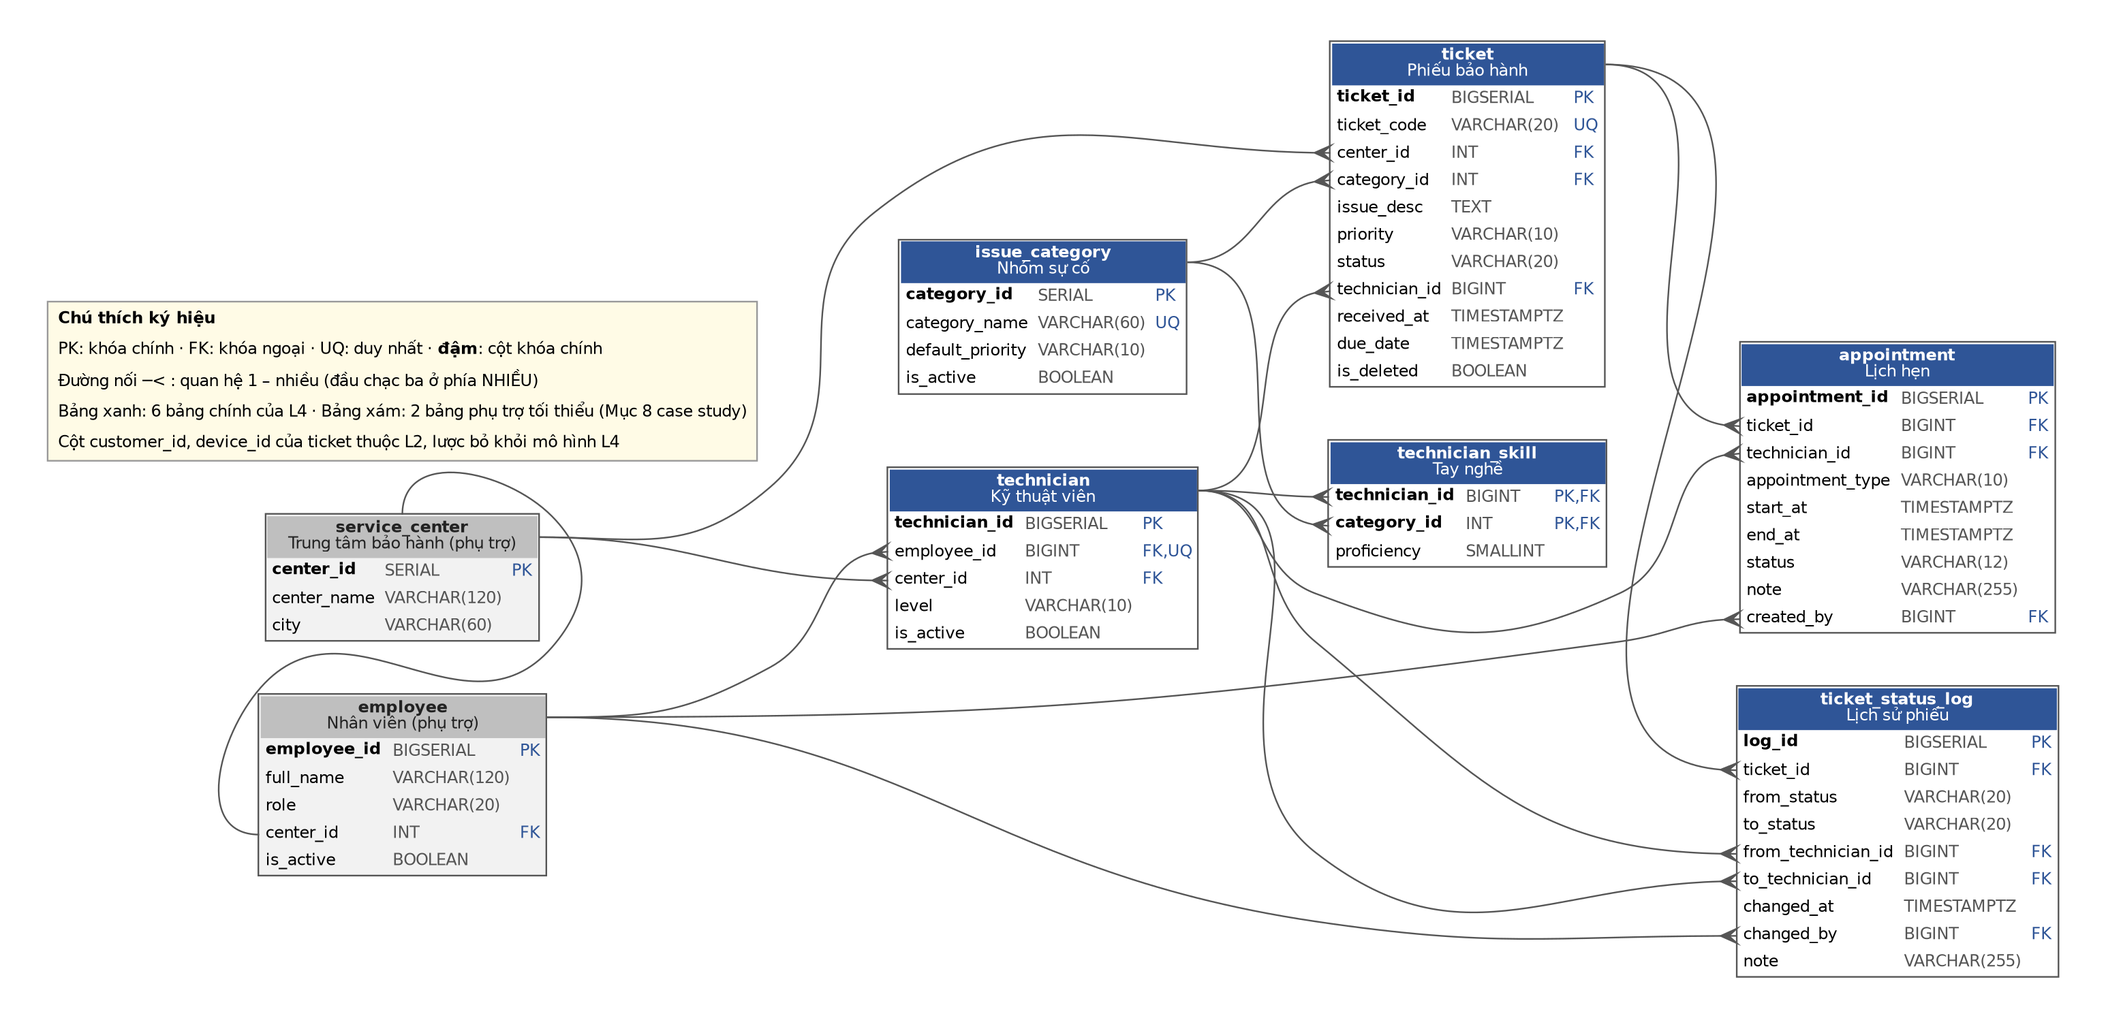
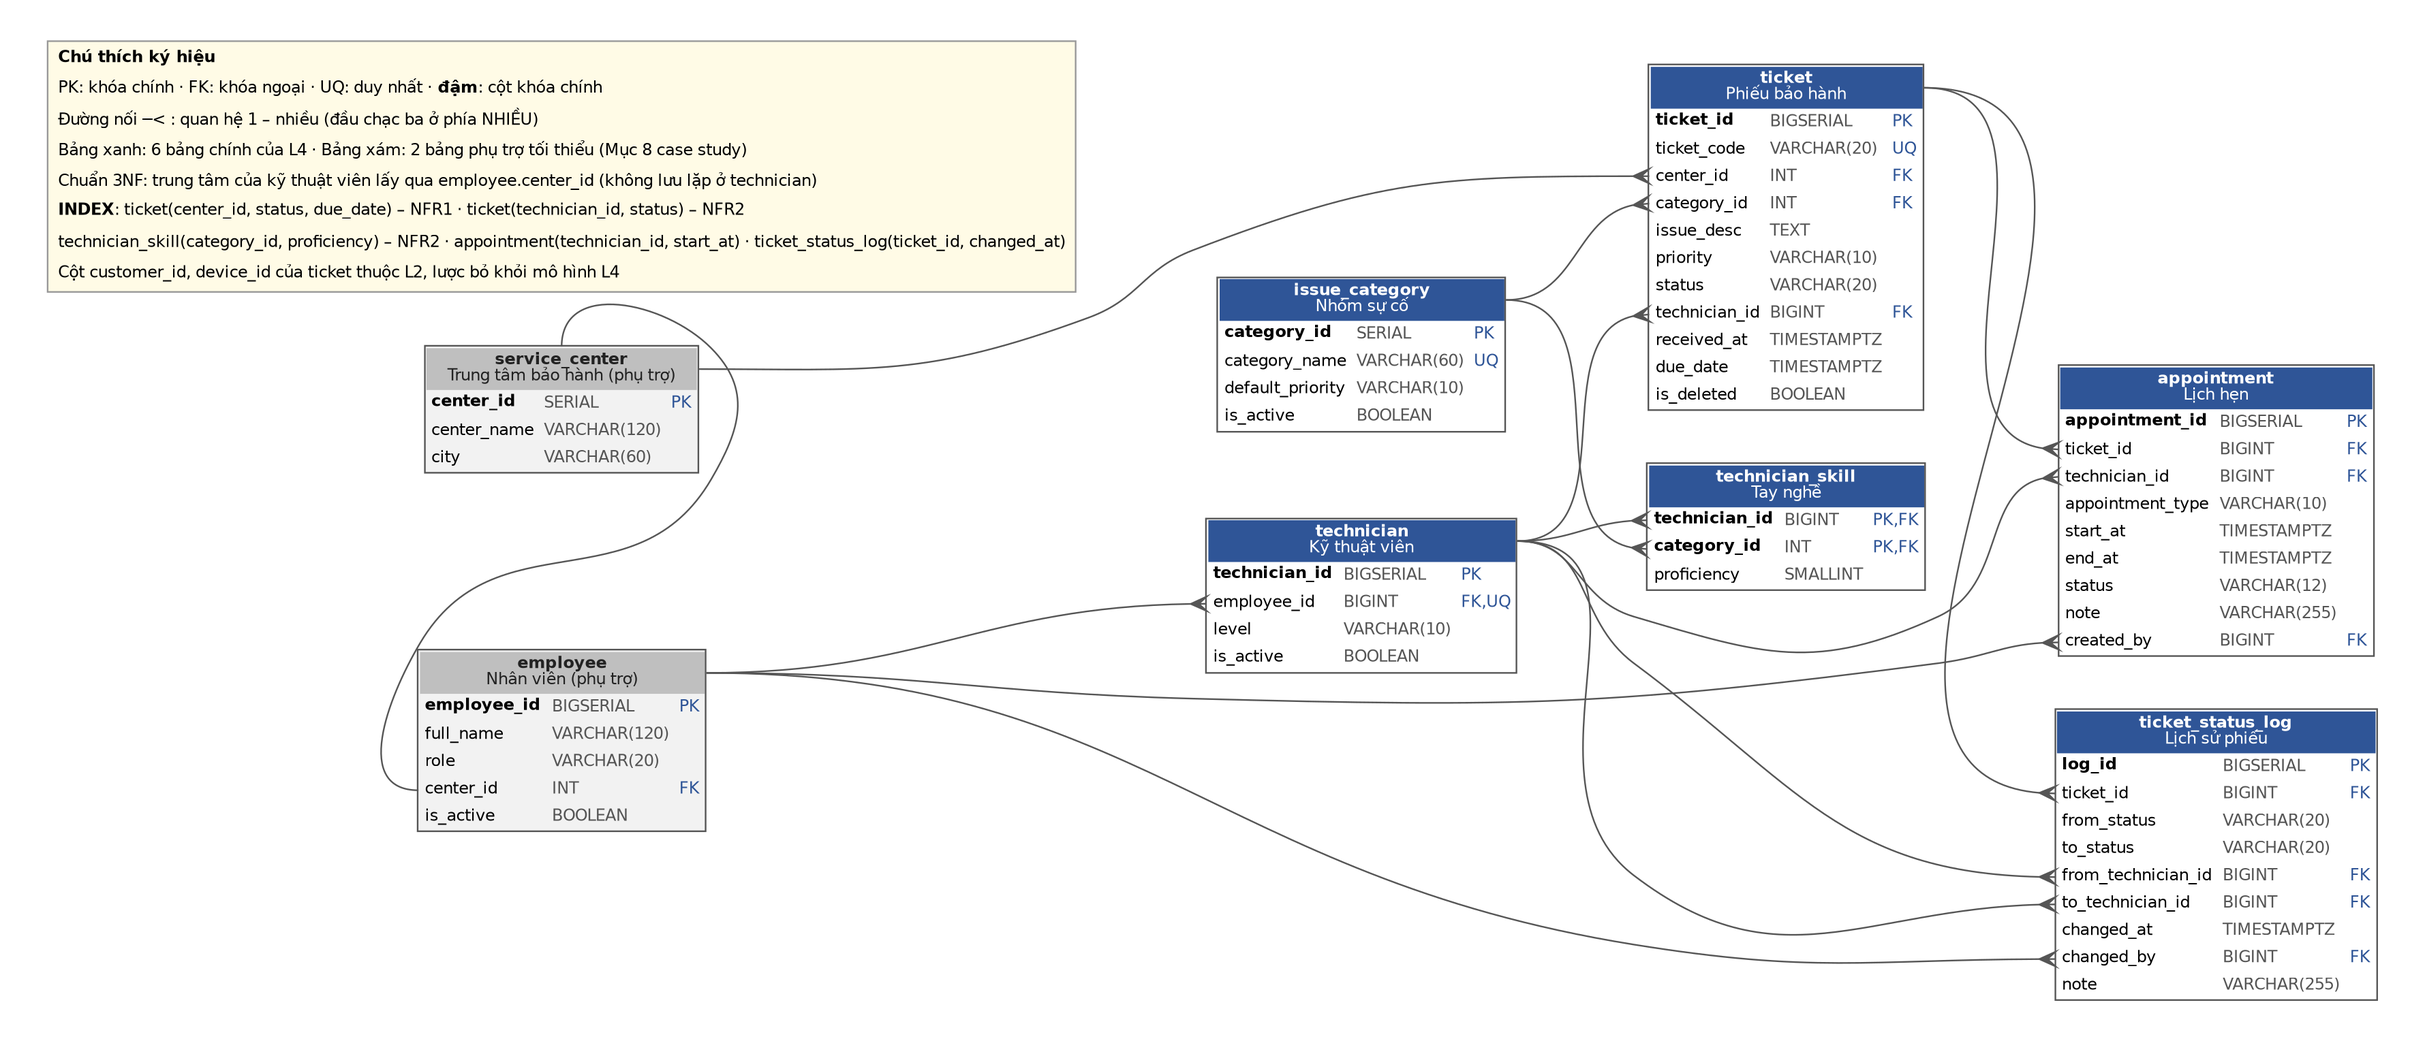
docs: refine 4-layer architecture, 3NF ERD and consistency check

diff --git a/docs/thiet-ke.md b/docs/thiet-ke.md
@@ -2,46 +2,87 @@
 
 ![Sơ đồ kiến trúc phân lớp](diagrams/architecture.png)
 
-File gốc: [`architecture.drawio`](architecture.drawio). Kiến trúc chọn: **monolith phân lớp** (một ứng dụng, năm lớp), chạy một tiến trình trên máy cá nhân.
+File gốc: [`architecture.drawio`](architecture.drawio). Kiến trúc chọn: **kiến trúc phân lớp (Layered) 4 lớp** làm khung tổng thể, **MVC** bên trong lớp trình bày (giao diện web là View, FastAPI routers là Controller), **Repository** cho lớp truy cập dữ liệu. Ứng dụng chạy một tiến trình trên máy cá nhân.
 
-| Lớp | Trách nhiệm | Trao đổi với lớp khác |
-|---|---|---|
-| ① Giao diện | Hiển thị 3 màn hình (xem wireframe), kiểm tra nhập liệu cơ bản; không chứa quy tắc nghiệp vụ | Gửi HTTP/JSON tới lớp API, kèm header `X-Employee-Id` |
-| ② API | Nhận request theo API contract (E1–E10), kiểm tra kiểu dữ liệu, kiểm tra quyền dùng chung (vai trò + trung tâm), trả mã HTTP thống nhất | Gọi hàm Python của lớp Nghiệp vụ; không truy cập CSDL trực tiếp |
-| ③ Nghiệp vụ | Áp dụng quy tắc: gợi ý và phân công (QT-06, QT-07, QT-08, QT-L4-01), lịch hẹn (QT-L4-02…05), truy vấn danh sách, khối lượng công việc và lịch sử phiếu | Gọi hàm Python của lớp Truy cập dữ liệu; không biết gì về HTTP |
-| ④ Truy cập dữ liệu | Câu SQL tham số hóa, mở/đóng giao dịch, UPDATE có điều kiện | Gửi SQL tới PostgreSQL qua TCP cổng 5432 |
-| ⑤ Cơ sở dữ liệu | Lưu 6 bảng chính; ràng buộc khóa, CHECK, EXCLUDE; index | Chỉ nhận kết nối từ lớp ④ |
+| Lớp | Thành phần | Trách nhiệm | KHÔNG được làm | Trao đổi |
+|---|---|---|---|---|
+| ① Trình bày | Giao diện web (View) · FastAPI routers (Controller) | Hiển thị 3 màn hình; nhận request theo API contract E1–E10; kiểm tra kiểu dữ liệu; kiểm tra quyền dùng chung (vai trò + trung tâm); đổi lỗi nghiệp vụ thành mã HTTP | Chứa quy tắc nghiệp vụ; truy vấn CSDL trực tiếp | Giao diện → API: HTTP + JSON (REST). API → Service: gọi hàm Python |
+| ② Nghiệp vụ | AssignmentService · AppointmentService · TicketQueryService | Chứa **toàn bộ** quy tắc: QT-06, QT-07, QT-08, QT-L4-01 … QT-L4-06 | Biết dữ liệu lưu bằng công nghệ gì; biết về HTTP | Gọi qua giao diện Repository |
+| ③ Truy cập dữ liệu | TicketRepository · TechnicianRepository · AppointmentRepository · StatusLogRepository | Câu SQL tham số hóa; mở/đóng giao dịch; UPDATE có điều kiện | Chứa quy tắc nghiệp vụ; gọi ngược lên Service | SQL qua TCP cổng 5432 |
+| ④ Lưu trữ | PostgreSQL 16 | Lưu 6 bảng; bảo đảm toàn vẹn bằng khóa ngoại, NOT NULL, CHECK, EXCLUDE; index | — | Chỉ nhận kết nối từ lớp ③ |
 
-**Quy tắc phụ thuộc:** lớp trên chỉ gọi lớp ngay dưới, không gọi tắt. **Ngoài phạm vi** (khối xám trong sơ đồ): L2 tiếp nhận, L5 kho linh kiện, L8 khảo sát, đăng nhập, SMS/Zalo, cập nhật tiến độ sửa chữa. Dữ liệu các phần này lấy từ bộ dữ liệu mẫu của case study, nạp một lần.
+**Phụ thuộc một chiều:** lớp trên chỉ gọi lớp ngay dưới, lớp dưới không bao giờ gọi lớp trên, không nhảy cóc. **Ngoài phạm vi** (khối xám): L2 tiếp nhận, L5 kho linh kiện, L8 khảo sát, đăng nhập, SMS/Zalo, cập nhật tiến độ sửa chữa – nối với mục WON'T của SRS.
 
-**Lập luận lựa chọn kiến trúc**
+**Ví dụ một yêu cầu đi qua bốn lớp – "Phân công kỹ thuật viên" (UC2):** màn hình gửi `POST /api/tickets/88231/assignment {technician_id: 12}` → Controller kiểm tra kiểu và quyền → `AssignmentService.assign()` kiểm tra phiếu còn MOI và kỹ thuật viên thỏa QT-08 → `TicketRepository` chạy `UPDATE ticket ... WHERE status = 'MOI'` và `StatusLogRepository` ghi lịch sử trong cùng giao dịch → PostgreSQL. Thành công: trả 201 lên màn hình. Ngoại lệ 5a (phiếu đã được phân công): UPDATE không đổi dòng nào → Service ném lỗi → Controller trả 409 → màn hình hiện thông báo đã vẽ trên wireframe.
+
+**Lập luận lựa chọn kiến trúc** (khuôn: *Vì NFR… yêu cầu…, tôi chọn…, đánh đổi là…*)
 
 1. Vì **NFR3** yêu cầu phân công và ghi lịch sử phiếu cùng thành công hoặc cùng không xảy ra, và khi có 2 yêu cầu đồng thời thì **đúng 1** thành công, tôi chọn **một cơ sở dữ liệu quan hệ PostgreSQL duy nhất, giao dịch do lớp Truy cập dữ liệu quản lý, và câu `UPDATE ... WHERE status = 'MOI'` có điều kiện**, đánh đổi là mọi chức năng dùng chung một CSDL nên không tách triển khai riêng được, và tôi phải tự viết SQL thay vì dùng ORM cho nhanh.
-2. Vì **NFR4** yêu cầu **100%** chức năng kiểm tra vai trò và trung tâm, tôi chọn **đặt việc kiểm tra quyền ở một thành phần dùng chung của lớp API, chạy trước mọi endpoint**, thay vì để từng hàm tự kiểm tra, đánh đổi là mỗi request tốn thêm một truy vấn tra bảng `employee` và lớp API phụ thuộc vào bảng này.
-3. Vì **NFR1** và **NFR2** yêu cầu danh sách phiếu **dưới 2 giây** và gợi ý **dưới 1 giây** với **10.000 phiếu**, tôi chọn **để CSDL lọc, đếm và sắp xếp bằng truy vấn có index `(center_id, status, due_date)` và `(technician_id, status)`**, thay vì tải toàn bộ phiếu lên lớp Nghiệp vụ rồi xử lý bằng Python, đánh đổi là một phần quy tắc gợi ý QT-08 nằm trong câu SQL nên khó kiểm thử đơn vị hơn, và mỗi index làm thao tác ghi chậm thêm một chút.
-4. Vì **NFR1** yêu cầu **dưới 2 giây trên máy 8 GB RAM** và dự án chỉ có một người làm trong 6 buổi, tôi chọn **monolith phân lớp chạy một tiến trình** thay vì tách microservices, đánh đổi là khi các luồng khác (L2, L5) nhập vào sẽ dùng chung một mã nguồn và không mở rộng từng phần độc lập được.
+2. Vì **NFR4** yêu cầu **100%** chức năng kiểm tra vai trò và trung tâm, tôi chọn **đặt việc kiểm tra quyền ở một thành phần dùng chung của lớp trình bày (API), chạy trước mọi endpoint**, thay vì để từng hàm tự kiểm tra, đánh đổi là mỗi request tốn thêm một truy vấn tra bảng `employee` và lớp trình bày phụ thuộc vào bảng này.
+3. Vì **NFR1** và **NFR2** yêu cầu danh sách phiếu **dưới 2 giây** và gợi ý **dưới 1 giây** với **10.000 phiếu**, tôi chọn **để CSDL lọc, đếm, sắp xếp và phân trang bằng truy vấn có index `(center_id, status, due_date)` và `(technician_id, status)`**, thay vì tải toàn bộ phiếu lên lớp Nghiệp vụ rồi xử lý bằng Python, đánh đổi là một phần quy tắc gợi ý QT-08 nằm trong câu SQL nên khó kiểm thử đơn vị hơn, và mỗi index làm thao tác ghi chậm thêm một chút – chấp nhận được vì đọc nhiều hơn ghi.
+4. Vì **NFR1** yêu cầu **dưới 2 giây trên máy 8 GB RAM** và dự án chỉ có một người làm trong 6 buổi, tôi chọn **kiến trúc phân lớp chạy một tiến trình** thay vì tách microservices, đánh đổi là khi các luồng khác (L2, L5) nhập vào sẽ dùng chung một mã nguồn và không mở rộng từng phần độc lập được.
 
-# Mô hình dữ liệu (Track SE)
+# Mô hình dữ liệu (Track SE – ERD chuẩn 3NF)
 
 ![ERD luồng L4](diagrams/erd.png)
 
 File gốc: [`schema.dbml`](schema.dbml) (dbdiagram.io) · SQL DDL: [`schema.sql`](schema.sql) (đã kiểm tra cú pháp bằng bộ phân tích cú pháp PostgreSQL).
 
-| Bảng | Vai trò trong L4 | Khóa chính | Khóa ngoại |
-|---|---|---|---|
-| `issue_category` | Nhóm sự cố của phiếu, để khớp tay nghề | `category_id` | — (được tham chiếu) |
-| `technician` | Kỹ thuật viên, trung tâm, bậc | `technician_id` | `employee_id`, `center_id` |
-| `technician_skill` | Tay nghề 1–5 theo nhóm sự cố (QT-08) | `(technician_id, category_id)` | `technician_id`, `category_id` |
-| `ticket` | Phiếu bảo hành, trạng thái phiếu, kỹ thuật viên đang giữ | `ticket_id` | `center_id`, `category_id`, `technician_id` |
-| `appointment` | Lịch hẹn giao – nhận máy | `appointment_id` | `ticket_id`, `technician_id`, `created_by` |
-| `ticket_status_log` | Lịch sử phiếu: chuyển trạng thái và đổi kỹ thuật viên (QT-06, QT-07) | `log_id` | `ticket_id`, `from_technician_id`, `to_technician_id`, `changed_by` |
+**Bốn bước đi từ SRS tới mô hình dữ liệu**
 
-**Kiểm chứng track SE:** 6 bảng chính ✔ · mỗi bảng có khóa chính ✔ · 15 quan hệ khóa ngoại ✔ · không bảng cô lập ✔ · có SQL DDL skeleton ✔. Hai bảng phụ trợ tối thiểu `service_center`, `employee` được case study cho phép tự thiết kế (Mục 8), chỉ giữ cột cần cho L4.
+| Bước | Kết quả áp dụng cho L4 |
+|---|---|
+| 1. Gạch chân DANH TỪ → thực thể | phiếu bảo hành → `ticket` · kỹ thuật viên → `technician` · tay nghề → `technician_skill` · nhóm sự cố → `issue_category` · lịch hẹn → `appointment` · lịch sử phiếu → `ticket_status_log` |
+| 2. Hỏi "cần biết gì?" → thuộc tính | Lấy từ mục 5 SRS (quy tắc) và wireframe: `priority`, `status`, `due_date`, `proficiency`, `start_at`, `end_at`, `note`… |
+| 3. Đọc ĐỘNG TỪ → quan hệ | quản lý **GÁN** phiếu cho kỹ thuật viên (1:N, `ticket.technician_id` cho phép NULL) · kỹ thuật viên **CÓ** tay nghề ở nhiều nhóm sự cố (N:M → bảng trung gian `technician_skill`) · phiếu **CÓ** nhiều lịch hẹn (1:N) · hệ thống **LƯU** lịch sử phiếu (1:N) |
+| 4. Truy vết ngược bảng → FR | Bảng dưới đây: bảng nào cũng phục vụ ít nhất một FR, FR nào cũng có bảng đỡ |
+
+| Bảng | Vai trò | Khóa chính | Khóa ngoại | Phục vụ FR |
+|---|---|---|---|---|
+| `issue_category` | Nhóm sự cố, để khớp tay nghề | `category_id` | — (được tham chiếu) | FR1, FR2 |
+| `technician` | Kỹ thuật viên, bậc | `technician_id` | `employee_id` | FR2, FR3, FR4, FR6, FR7 |
+| `technician_skill` | Tay nghề 1–5 theo nhóm sự cố (QT-08) | `(technician_id, category_id)` | `technician_id`, `category_id` | FR2 |
+| `ticket` | Phiếu bảo hành, trạng thái, kỹ thuật viên đang giữ | `ticket_id` | `center_id`, `category_id`, `technician_id` | FR1, FR3, FR4, FR6, FR7 |
+| `appointment` | Lịch hẹn giao – nhận máy | `appointment_id` | `ticket_id`, `technician_id`, `created_by` | FR5, FR9 |
+| `ticket_status_log` | Lịch sử phiếu: chuyển trạng thái, đổi kỹ thuật viên | `log_id` | `ticket_id`, `from_technician_id`, `to_technician_id`, `changed_by` | FR3, FR4, FR8 |
+
+**Kiểm chứng track SE:** 6 bảng chính ✔ · mỗi bảng có khóa chính ✔ · 14 quan hệ khóa ngoại ✔ · không bảng cô lập ✔ · có SQL DDL skeleton ✔. Hai bảng phụ trợ tối thiểu `service_center`, `employee` được case study cho phép tự thiết kế (Mục 8), chỉ giữ cột cần cho L4.
+
+**Soi năm lỗi mô hình dữ liệu (Buổi 5)**
+
+| Lỗi | Kết quả kiểm tra |
+|---|---|
+| 1. Bảng cô lập | ✔ Không có: cả 8 bảng đều nối với ít nhất một bảng khác bằng khóa ngoại |
+| 2. Thiếu bảng lịch sử | ✔ Có `ticket_status_log` ghi mỗi lần chuyển trạng thái và đổi kỹ thuật viên, kèm thời điểm, người thực hiện |
+| 3. Lưu giá trị tính được | ✔ Không lưu "số phiếu đang mở", "sắp quá hạn": tính khi truy vấn từ `ticket.status`, `due_date` |
+| 4. Không có index | ✔ 5 index gắn với NFR1, NFR2 (bảng index bên dưới, ghi cả trên ERD) |
+| 5. Khóa nghiệp vụ làm khóa chính | ✔ Dùng khóa nhân tạo `ticket_id`; mã phiếu `ticket_code` chỉ đặt UNIQUE; `category_name` cũng chỉ UNIQUE |
+
+**Kiểm tra chuẩn hóa 3NF** – câu hỏi nhanh: *"biết khóa chính thì có biết ngay giá trị cột này không, mà không cần đi qua cột khác?"*
+
+| Dạng chuẩn | Kiểm tra | Kết quả |
+|---|---|---|
+| 1NF | Mỗi ô một giá trị, không nhóm lặp | ✔ Tay nghề theo nhiều nhóm sự cố tách thành bảng `technician_skill`, không lưu chuỗi "MAN_HINH, PIN" |
+| 2NF | Bảng khóa ghép `technician_skill (technician_id, category_id)`: cột không khóa phụ thuộc toàn bộ khóa | ✔ `proficiency` phụ thuộc cả kỹ thuật viên lẫn nhóm sự cố |
+| 3NF | Không phụ thuộc bắc cầu | ✔ **Đã sửa:** bản nháp có cả `technician.center_id` và `employee.center_id` (trung tâm phụ thuộc bắc cầu qua `employee_id`) → bỏ `technician.center_id`, lấy trung tâm qua phép nối với `employee`. `ticket` không lưu tên kỹ thuật viên hay tên nhóm sự cố, chỉ lưu khóa ngoại |
+
+`appointment.technician_id` **không** phải dư thừa: nó ghi kỹ thuật viên **tại thời điểm hẹn** (không đổi khi phiếu đổi người – QT-L4-05 hủy lịch cũ) và cần cho ràng buộc EXCLUDE chống trùng lịch.
+
+**Index gắn với yêu cầu phi chức năng**
+
+| Index | Phục vụ | NFR |
+|---|---|---|
+| `ticket (center_id, status, due_date)` | E1 – danh sách phiếu MOI sắp theo hạn cam kết | NFR1 |
+| `ticket (technician_id, status)` | E2, E7, E8 – đếm phiếu đang mở của kỹ thuật viên | NFR1, NFR2 |
+| `technician_skill (category_id, proficiency)` | E2 – lọc kỹ thuật viên tay nghề ≥ 3 | NFR2 |
+| `appointment (technician_id, start_at)` + EXCLUDE | E4, E5 – lịch hẹn và chống trùng (QT-L4-02) | NFR3 |
+| `ticket_status_log (ticket_id, changed_at)` | E9 – lịch sử phiếu theo thời gian | NFR1 |
 
 **Điều chỉnh so với từ điển dữ liệu tham chiếu (Mục 8 case study), có lý do:**
 - `ticket_status_log` thêm `from_technician_id`, `to_technician_id` để ghi việc đổi kỹ thuật viên kèm lý do (QT-07) mà không cần thêm bảng thứ 7.
+- `technician` bỏ `center_id` để đạt 3NF (trung tâm lấy qua `employee`).
 - `ticket` lược bỏ `customer_id`, `device_id`, `is_warranty` (thuộc L2, L4 không dùng); thêm `is_deleted` cho QT-13.
-- `appointment` do tôi thiết kế (case study chỉ nêu tên): ràng buộc `EXCLUDE` chặn trùng lịch ở mức CSDL (QT-L4-02), `CHECK` độ dài 15–120 phút (QT-L4-03).
+- `appointment` do em thiết kế (case study chỉ nêu tên): `EXCLUDE` chặn trùng lịch ở mức CSDL (QT-L4-02), `CHECK` độ dài 15–120 phút (QT-L4-03).
 - Dùng `TIMESTAMPTZ` thay `TIMESTAMP` để lưu múi giờ +07:00 đúng quy ước ISO 8601 của API contract.
 
 # Wireframe 3 màn hình
@@ -55,3 +96,25 @@ File gốc: [`schema.dbml`](schema.dbml) (dbdiagram.io) · SQL DDL: [`schema.sql
 | 3. Đặt lịch hẹn giao – nhận máy | Tạo mới | UC4, UC8 | Loại lịch hẹn `appointment.appointment_type` · Bắt đầu `appointment.start_at` · Kết thúc `appointment.end_at` · Ghi chú `appointment.note` |
 
 UC5 (danh sách phiếu của kỹ thuật viên), UC6 (bảng khối lượng công việc) và UC7 (lịch sử phiếu – đọc `ticket_status_log`) dùng lại bố cục bảng của Màn hình 1, không vẽ riêng.
+
+# Kiểm tra tính nhất quán thuật ngữ
+
+Mỗi khái niệm chỉ có **một tên** trong mọi tài liệu và sơ đồ (tiêu chí 2 – Nhất quán). Bảng dưới đối chiếu từng thuật ngữ trong bảng thuật ngữ mục 1 SRS với cách gọi ở Use Case, sơ đồ kiến trúc, ERD, wireframe và API contract.
+
+| Thuật ngữ (SRS mục 1) | Use Case | Kiến trúc | ERD | Wireframe | API contract |
+|---|---|---|---|---|---|
+| Phiếu bảo hành | "phiếu" (UC1, UC2, UC7) | TicketQueryService, TicketRepository | `ticket` | "Phiếu bảo hành BH000231/2026", "Mã phiếu" | `ticket_id`, `ticket_code` |
+| Trạng thái phiếu | điều kiện trước/sau UC2 (MOI, DA_PHAN_CONG) | — | `ticket.status` | "Trạng thái phiếu: MOI" | `status` |
+| Hạn cam kết | UC1 | Index (center_id, status, due_date) | `ticket.due_date` | "Hạn cam kết ▲" | `due_date` |
+| Nhóm sự cố | UC2 bước 2 | — | `issue_category` | "Nhóm sự cố" | `category_name` |
+| Mức ưu tiên | UC2 bước 2 | — | `ticket.priority` | "Mức ưu tiên" | `priority` |
+| Kỹ thuật viên | actor "Kỹ thuật viên", UC2, UC3 | TechnicianRepository | `technician` | "Kỹ thuật viên", "Gợi ý kỹ thuật viên" | `technician_id` |
+| Tay nghề | UC2 bước 3 | AssignmentService (QT-08) | `technician_skill.proficiency` | "Tay nghề (1–5)" | `proficiency` |
+| Bậc | — | — | `technician.level` | "Bậc" | `level` |
+| Khối lượng công việc / phiếu đang mở | UC6 | TicketQueryService | đếm `ticket` theo `status` | "Số phiếu đang mở" | `open_ticket_count` |
+| Lịch hẹn | UC4, UC8 | AppointmentService, AppointmentRepository | `appointment` | "Lịch hẹn mới", "Loại lịch hẹn" | `appointment_id`, `appointment_type` |
+| Lịch sử phiếu | UC7 | StatusLogRepository | `ticket_status_log` | "Lý do đổi kỹ thuật viên" (lưu vào lịch sử phiếu) | `status_log`, `/history` |
+| Quản lý trung tâm | actor "Quản lý trung tâm" | Kiểm tra quyền (vai trò) | `employee.role = QUAN_LY` | "Quản lý trung tâm: Nguyễn Thị Trâm" | header `X-Employee-Id` |
+| Trung tâm bảo hành | ranh giới "trung tâm mình" (QT-14) | Kiểm tra quyền (trung tâm) | `service_center` | "Trung tâm bảo hành Tân Bình" | `center_name` |
+
+**Kết quả:** 13/13 thuật ngữ dùng **một tên duy nhất** trên cả 6 tài liệu; không có cặp tên lệch kiểu "Đơn sửa chữa" ↔ "phiếu bảo hành". Cách kiểm: tìm (Ctrl + F) từng thuật ngữ trong SRS, Use Case, sơ đồ kiến trúc, ERD, wireframe và API contract.
